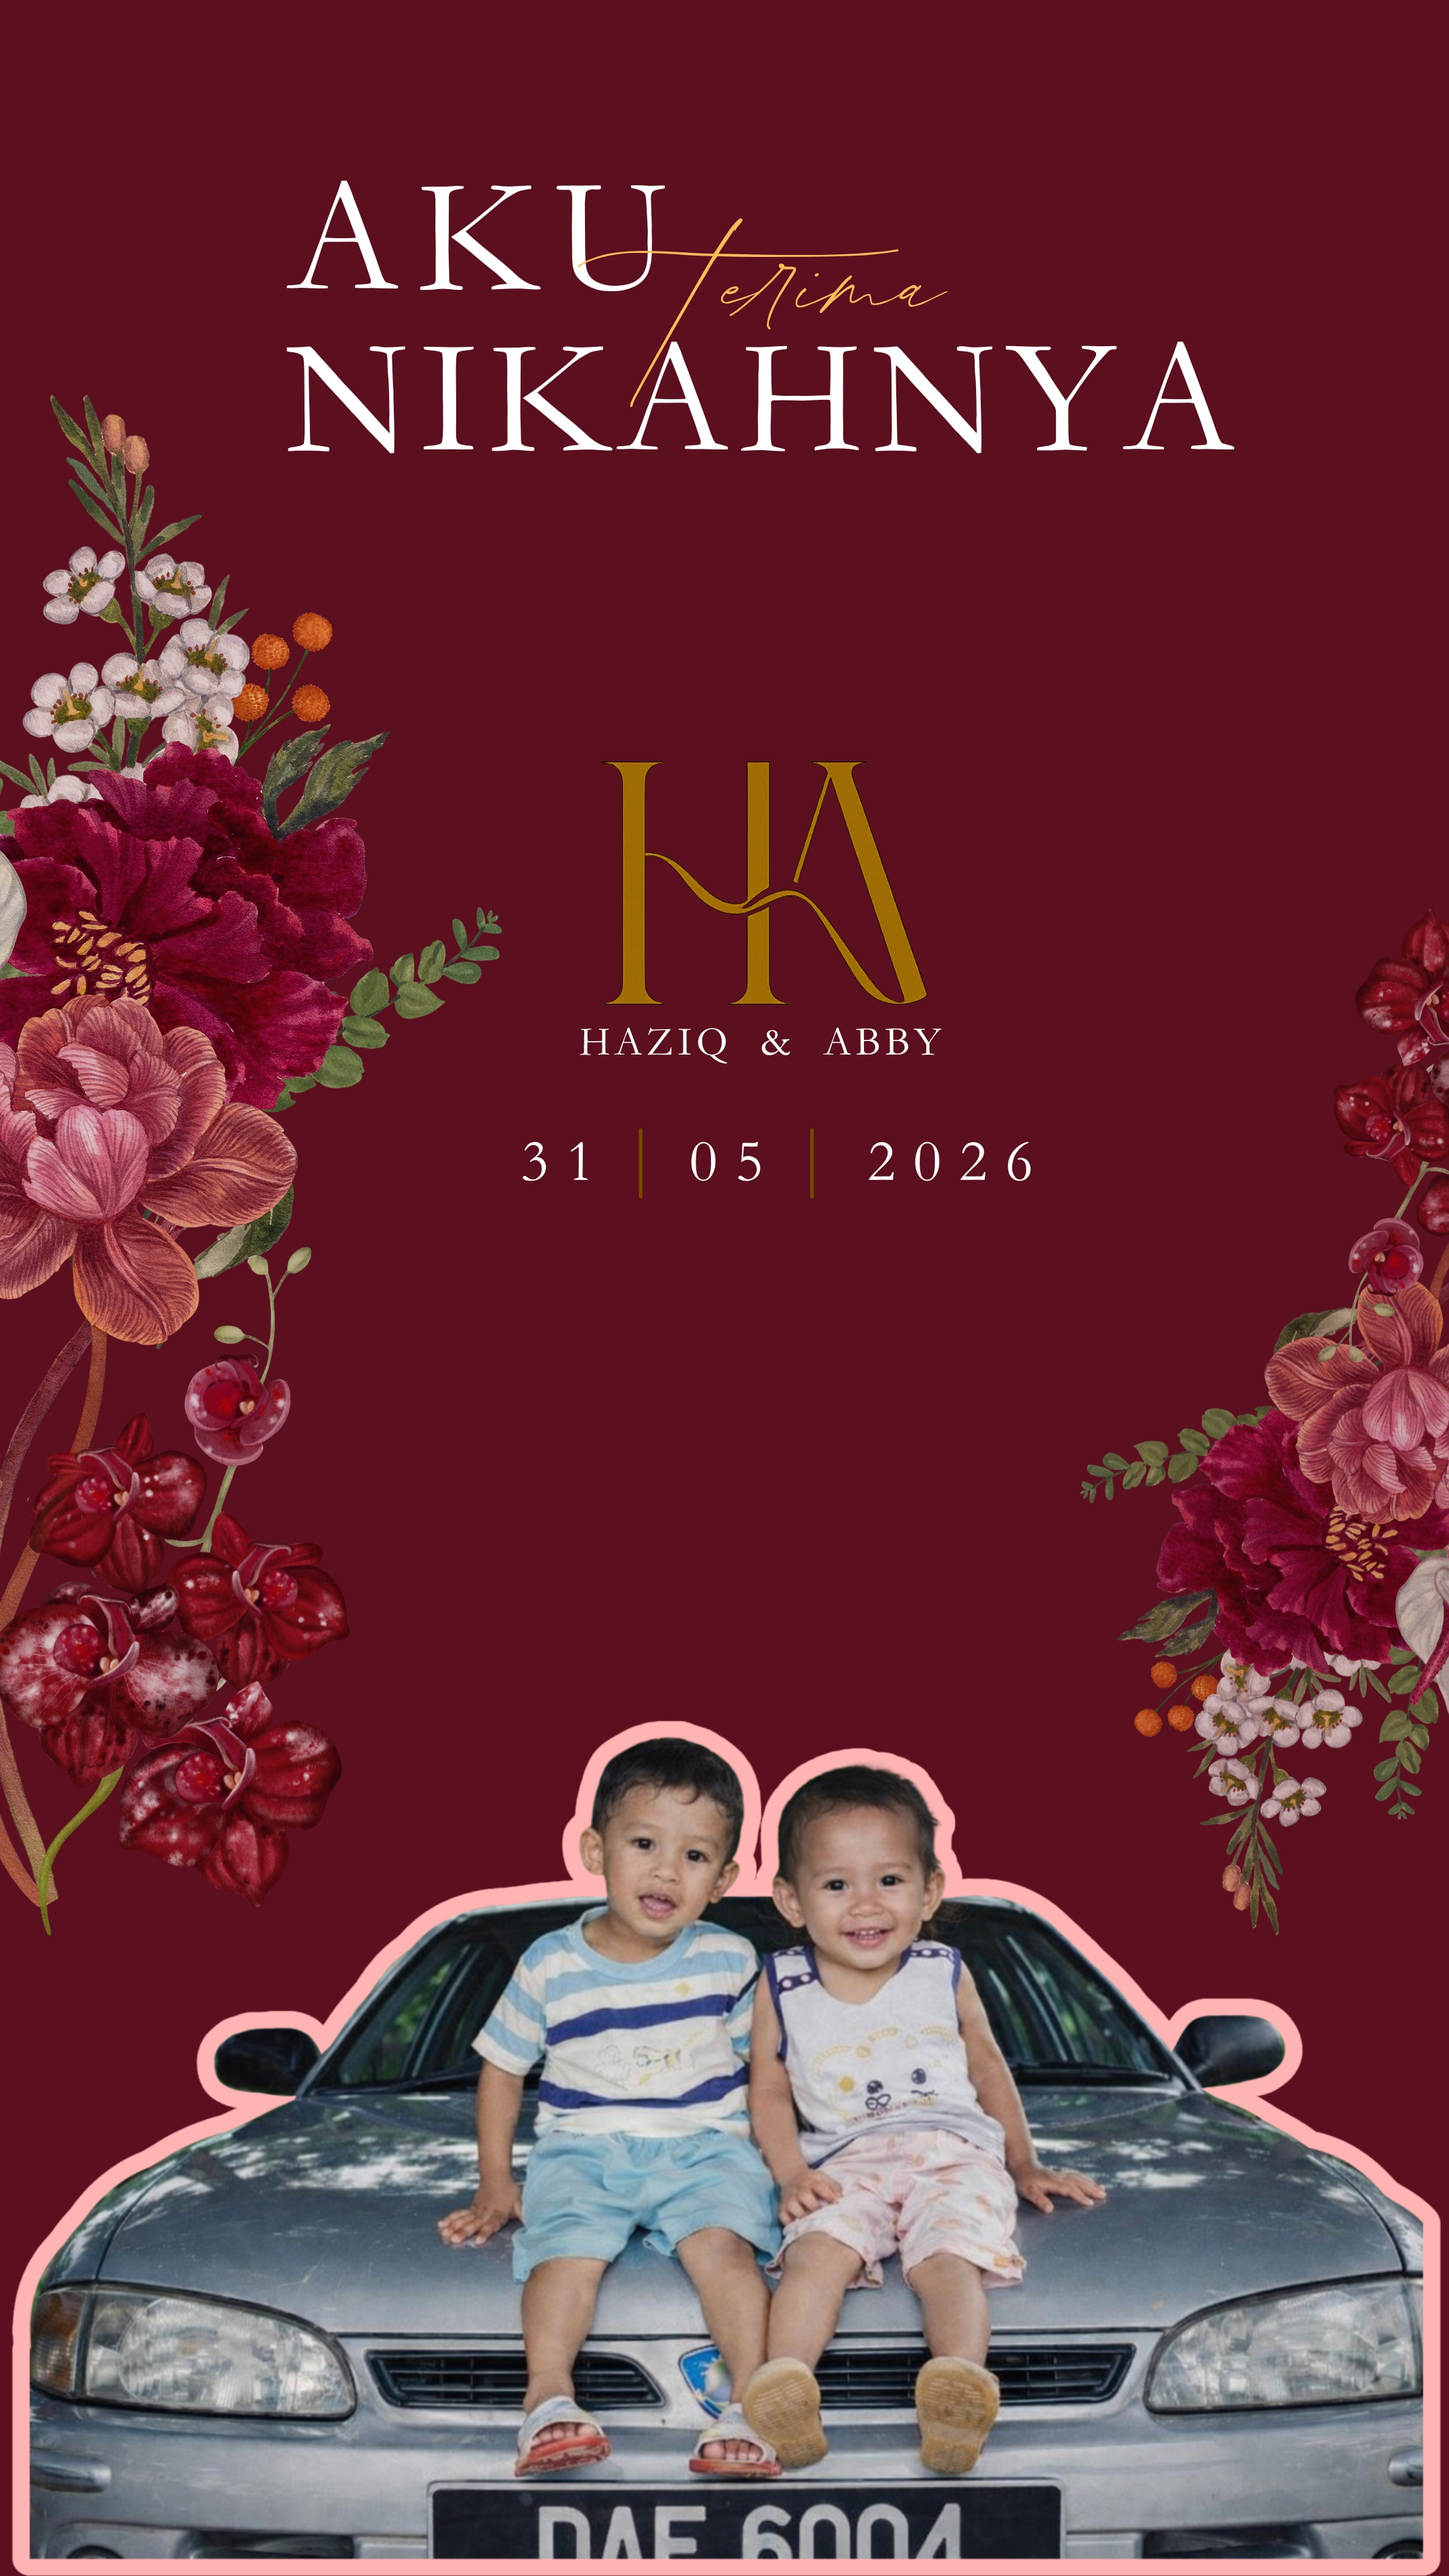
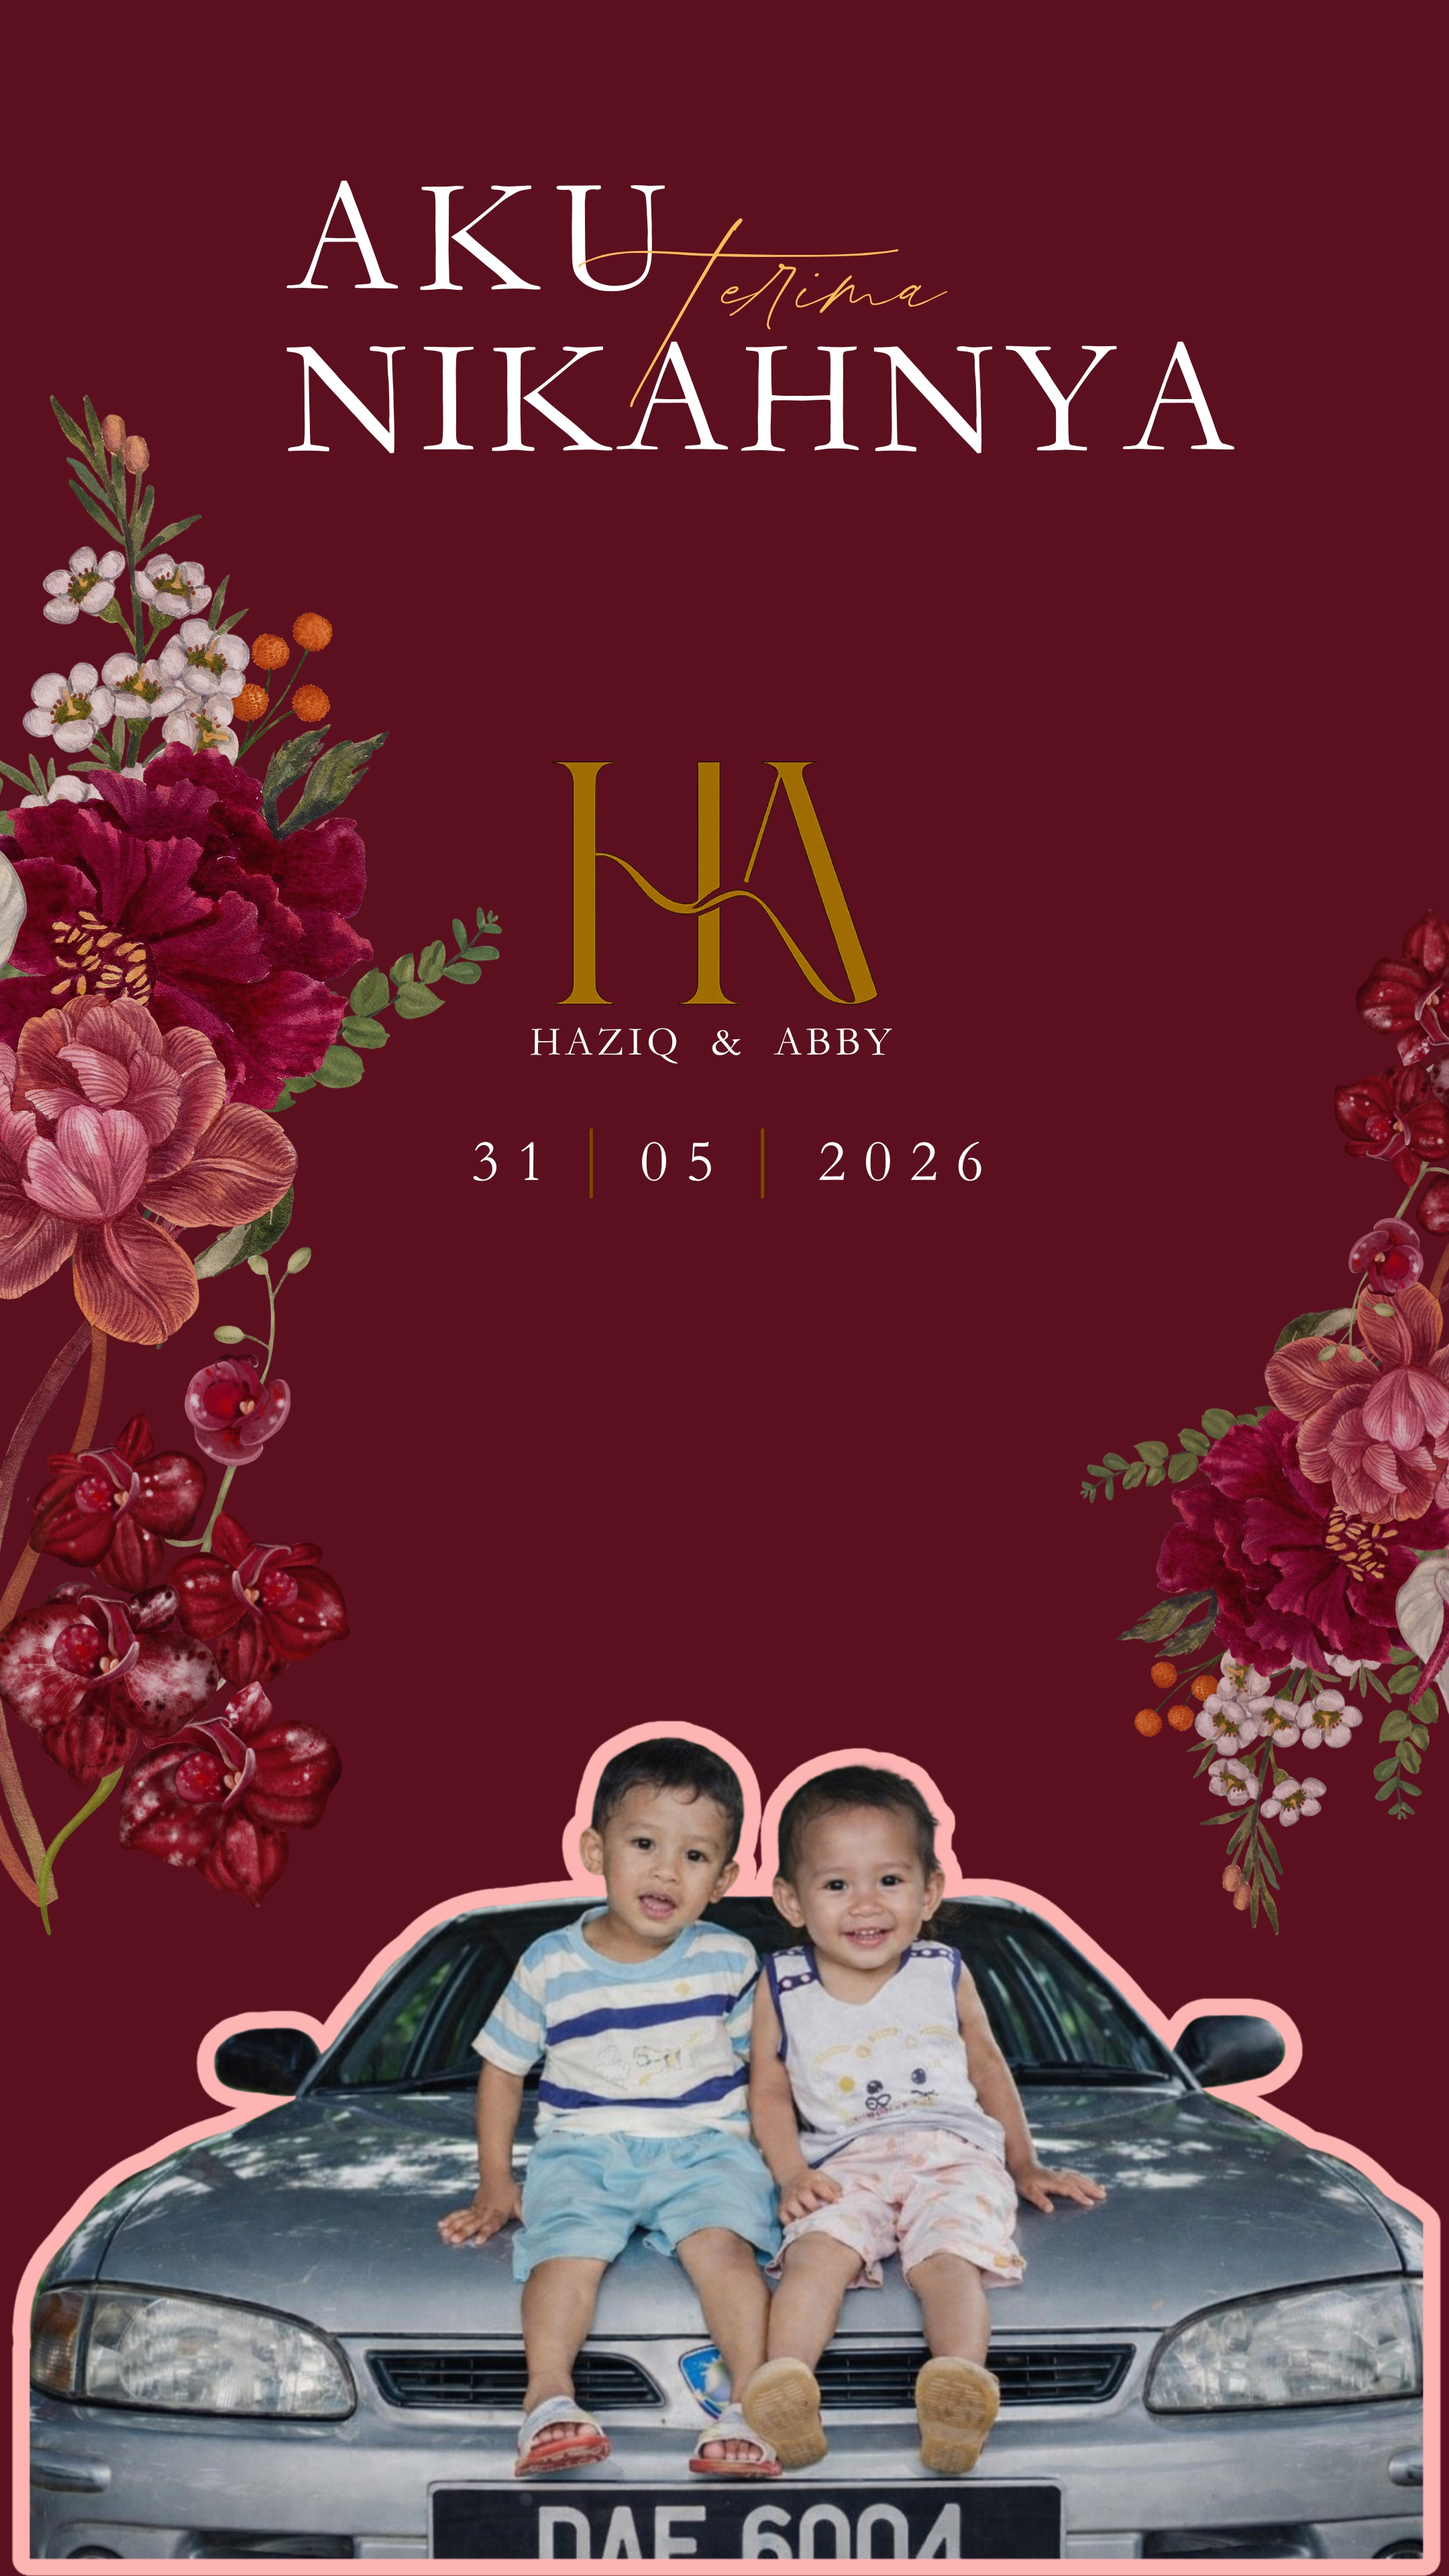
button

Changed region(s): [[0.3722, 0.2812, 0.6514, 0.4062], [0.5583, 0.4375, 0.6824, 0.4688], [0.4343, 0.4375, 0.5273, 0.4688]]

diff --git a/app/page.js b/app/page.js
@@ -16,7 +16,7 @@ export default function Home() {
       {/* Buttons */}
       <div
         className="absolute w-full flex flex-col items-center gap-4"
-        style={{ top: "50%" }}
+        style={{ top: "45%" }}
       >
 
         {/* Take Photos (Glowing) */}
